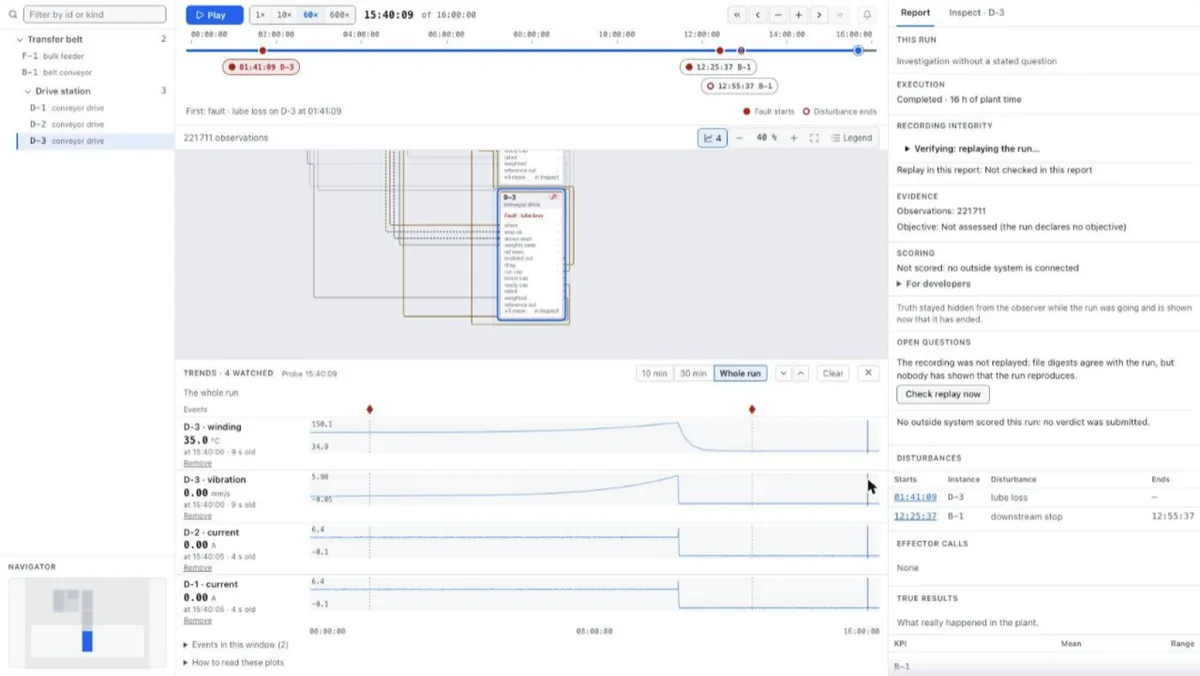
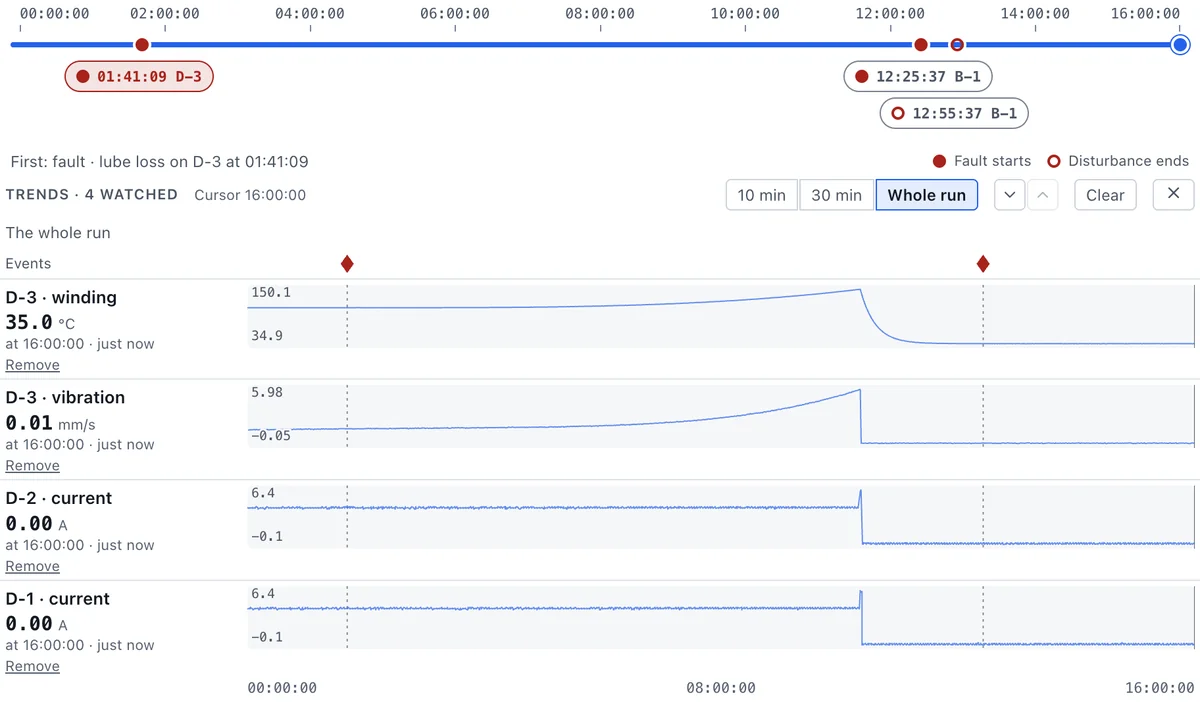
tamoz belt conveyor: fresh, readable simulator images with no report panels
New captures from the canvas (R1-1): plant B's graph alone; the do-nothing and
reference runs as timeline plus trends, cursor at the end of the day; the planned
stop as timeline plus the effector calls without their outcome column. No report
or run panel, seed, run name, pointer or blurred box. The run images use the wide
diagram figure (up to 1000 px) and, like the site's diagrams, scroll sideways on a
phone with a hint, so their labels stay readable; main.css gives .diagram images
a minimum width.

diff --git a/projects/tamoz-belt-conveyor.html b/projects/tamoz-belt-conveyor.html
@@ -130,8 +130,11 @@
           </ul>
           <p>Then comes the worst part. A loaded belt needs more force to start than to keep running. With one drive gone, the drives you have left may not be able to restart it. A fault that could have cost you a planned stop now costs hours of digging material off the belt by hand, and a line that produces no tonnes in the meantime.</p>
           <p>The failing drive usually warns you first. Its vibration rises. Its motor runs hotter than the others at the same current. The question is whether someone turns those early signs into the right action in time: without overreacting to a normal surge of material, without trusting a dead sensor, and without stopping a healthy line.</p>
-          <figure class="project-figure">
-            <img src="/images/projects/tamoz/belt-conveyor-plant.webp" alt="Screenshot of the simulator showing a feeder, a transfer belt and three conveyor drives, each with its sensor and control connections." width="1200" height="706" loading="lazy" />
+          <figure class="diagram diagram--plant">
+            <div class="diagram__scroll" tabindex="0" role="region" aria-label="The simulated plant, scroll horizontally">
+              <img src="/images/projects/tamoz/belt-conveyor-plant.webp" alt="Screenshot of the simulator showing a feeder, a transfer belt and three conveyor drives, each with its sensor and control connections." width="1200" height="1182" loading="lazy" />
+            </div>
+            <p class="diagram__hint">Scroll sideways to see the whole image.</p>
             <figcaption class="evidence-caption">The simulated plant with little drive margin: a feeder, a belt and three drives that share the load. Every drive reports its current, motor temperature and vibration.</figcaption>
           </figure>
 
@@ -144,8 +147,11 @@
             <li>The belt stopped loaded, and the two remaining drives could not restart it.</li>
           </ul>
           <p>Nothing went wrong with the protection. It did its job. It just did it at the worst moment, with the belt full.</p>
-          <figure class="project-figure">
-            <img src="/images/projects/tamoz/belt-conveyor-nobody-acts.webp" alt="Trend charts from the simulator. Drive 3's motor temperature and vibration climb for hours, then drop to zero when it trips; the currents of drives 1 and 2 drop to zero at the same moment." width="1200" height="676" loading="lazy" />
+          <figure class="diagram">
+            <div class="diagram__scroll" tabindex="0" role="region" aria-label="Trend charts, scroll horizontally">
+              <img src="/images/projects/tamoz/belt-conveyor-nobody-acts.webp" alt="Trend charts from the simulator. Drive 3's motor temperature and vibration climb for hours, then drop to zero when it trips; the currents of drives 1 and 2 drop to zero at the same moment." width="1200" height="702" loading="lazy" />
+            </div>
+            <p class="diagram__hint">Scroll sideways to see the whole image.</p>
             <figcaption class="evidence-caption">Nobody acts. Drive 3 heats up and vibrates more for hours until its protection trips it. The other two drives trip soon after, and the belt stops full of material.</figcaption>
           </figure>
 
@@ -159,8 +165,11 @@
             <li><strong>Brought the line back on two drives.</strong> Drive 3 was cooling and the two healthy drives were sharing the load evenly. The AI restored the feed at a safe, reduced rate that two drives can carry and still restart.</li>
           </ol>
           <p>Later that day, a routine stop further down the line halted the belt. The belt carried only a light load, so the two healthy drives started it again. No drive tripped. The belt never stranded.</p>
-          <figure class="project-figure">
-            <img src="/images/projects/tamoz/belt-conveyor-planned-stop.webp" alt="Simulator timeline of a 16-hour run with three actions marked: feed stopped, drive 3 stopped, feed restored at a reduced rate." width="1200" height="676" loading="lazy" />
+          <figure class="diagram">
+            <div class="diagram__scroll" tabindex="0" role="region" aria-label="Timeline, scroll horizontally">
+              <img src="/images/projects/tamoz/belt-conveyor-planned-stop.webp" alt="Simulator timeline of a 16-hour run with three actions marked: feed stopped, drive 3 stopped, feed restored at a reduced rate." width="1200" height="424" loading="lazy" />
+            </div>
+            <p class="diagram__hint">Scroll sideways to see the whole image.</p>
             <figcaption class="evidence-caption">The planned stop on the same simulated day: stop the feed, stop drive 3 on an empty belt, then restore a reduced feed on two drives. This screen shows the simulator's own reference plan; the AI's run took the same three steps a few minutes later.</figcaption>
           </figure>
 
@@ -183,8 +192,11 @@
             <li><strong>Every story passed with the live AI.</strong> Bearing failure on both plants, sudden trip, gearbox seizure, frozen sensor, silent sensor and loss of the lead drive.</li>
           </ul>
           <p>One honest trade-off: after the planned stop, the line ran on two drives at reduced feed. Over the test day it moved a little less material than the run where nobody acted, until that run's belt stranded. We think a restartable belt is worth those tonnes. Your numbers decide that, not ours.</p>
-          <figure class="project-figure">
-            <img src="/images/projects/tamoz/belt-conveyor-after-stop.webp" alt="Trend charts from the simulator. Drive 3's temperature and vibration fall after a planned stop, while drives 1 and 2 keep running and briefly stop and restart during a routine downstream stop." width="1200" height="676" loading="lazy" />
+          <figure class="diagram">
+            <div class="diagram__scroll" tabindex="0" role="region" aria-label="Trend charts, scroll horizontally">
+              <img src="/images/projects/tamoz/belt-conveyor-after-stop.webp" alt="Trend charts from the simulator. Drive 3's temperature and vibration fall after a planned stop, while drives 1 and 2 keep running and briefly stop and restart during a routine downstream stop." width="1200" height="738" loading="lazy" />
+            </div>
+            <p class="diagram__hint">Scroll sideways to see the whole image.</p>
             <figcaption class="evidence-caption">Drive 3 is stopped before it overheats, then cools down. The other two drives carry the belt, and restart it after a routine stop further down the line. Same plan as above, from the simulator's reference run.</figcaption>
           </figure>
 

diff --git a/assets/css/main.css b/assets/css/main.css
@@ -3057,6 +3057,17 @@ html.js .reveal--visible {
   min-width: 600px;
 }
 
+.diagram img {
+  display: block;
+  width: 100%;
+  height: auto;
+  min-width: 760px;
+}
+
+.diagram--plant img {
+  min-width: 600px;
+}
+
 .diagram--compact svg {
   min-width: 440px;
 }
@@ -3426,6 +3437,10 @@ html.js .reveal--visible {
 .article-layout--single .diagram {
   width: min(1000px, calc(100vw - 48px));
   max-width: none;
+}
+
+.article-layout--single .diagram--plant {
+  width: auto;
 }
 
 .article-layout--single .project-facts {
